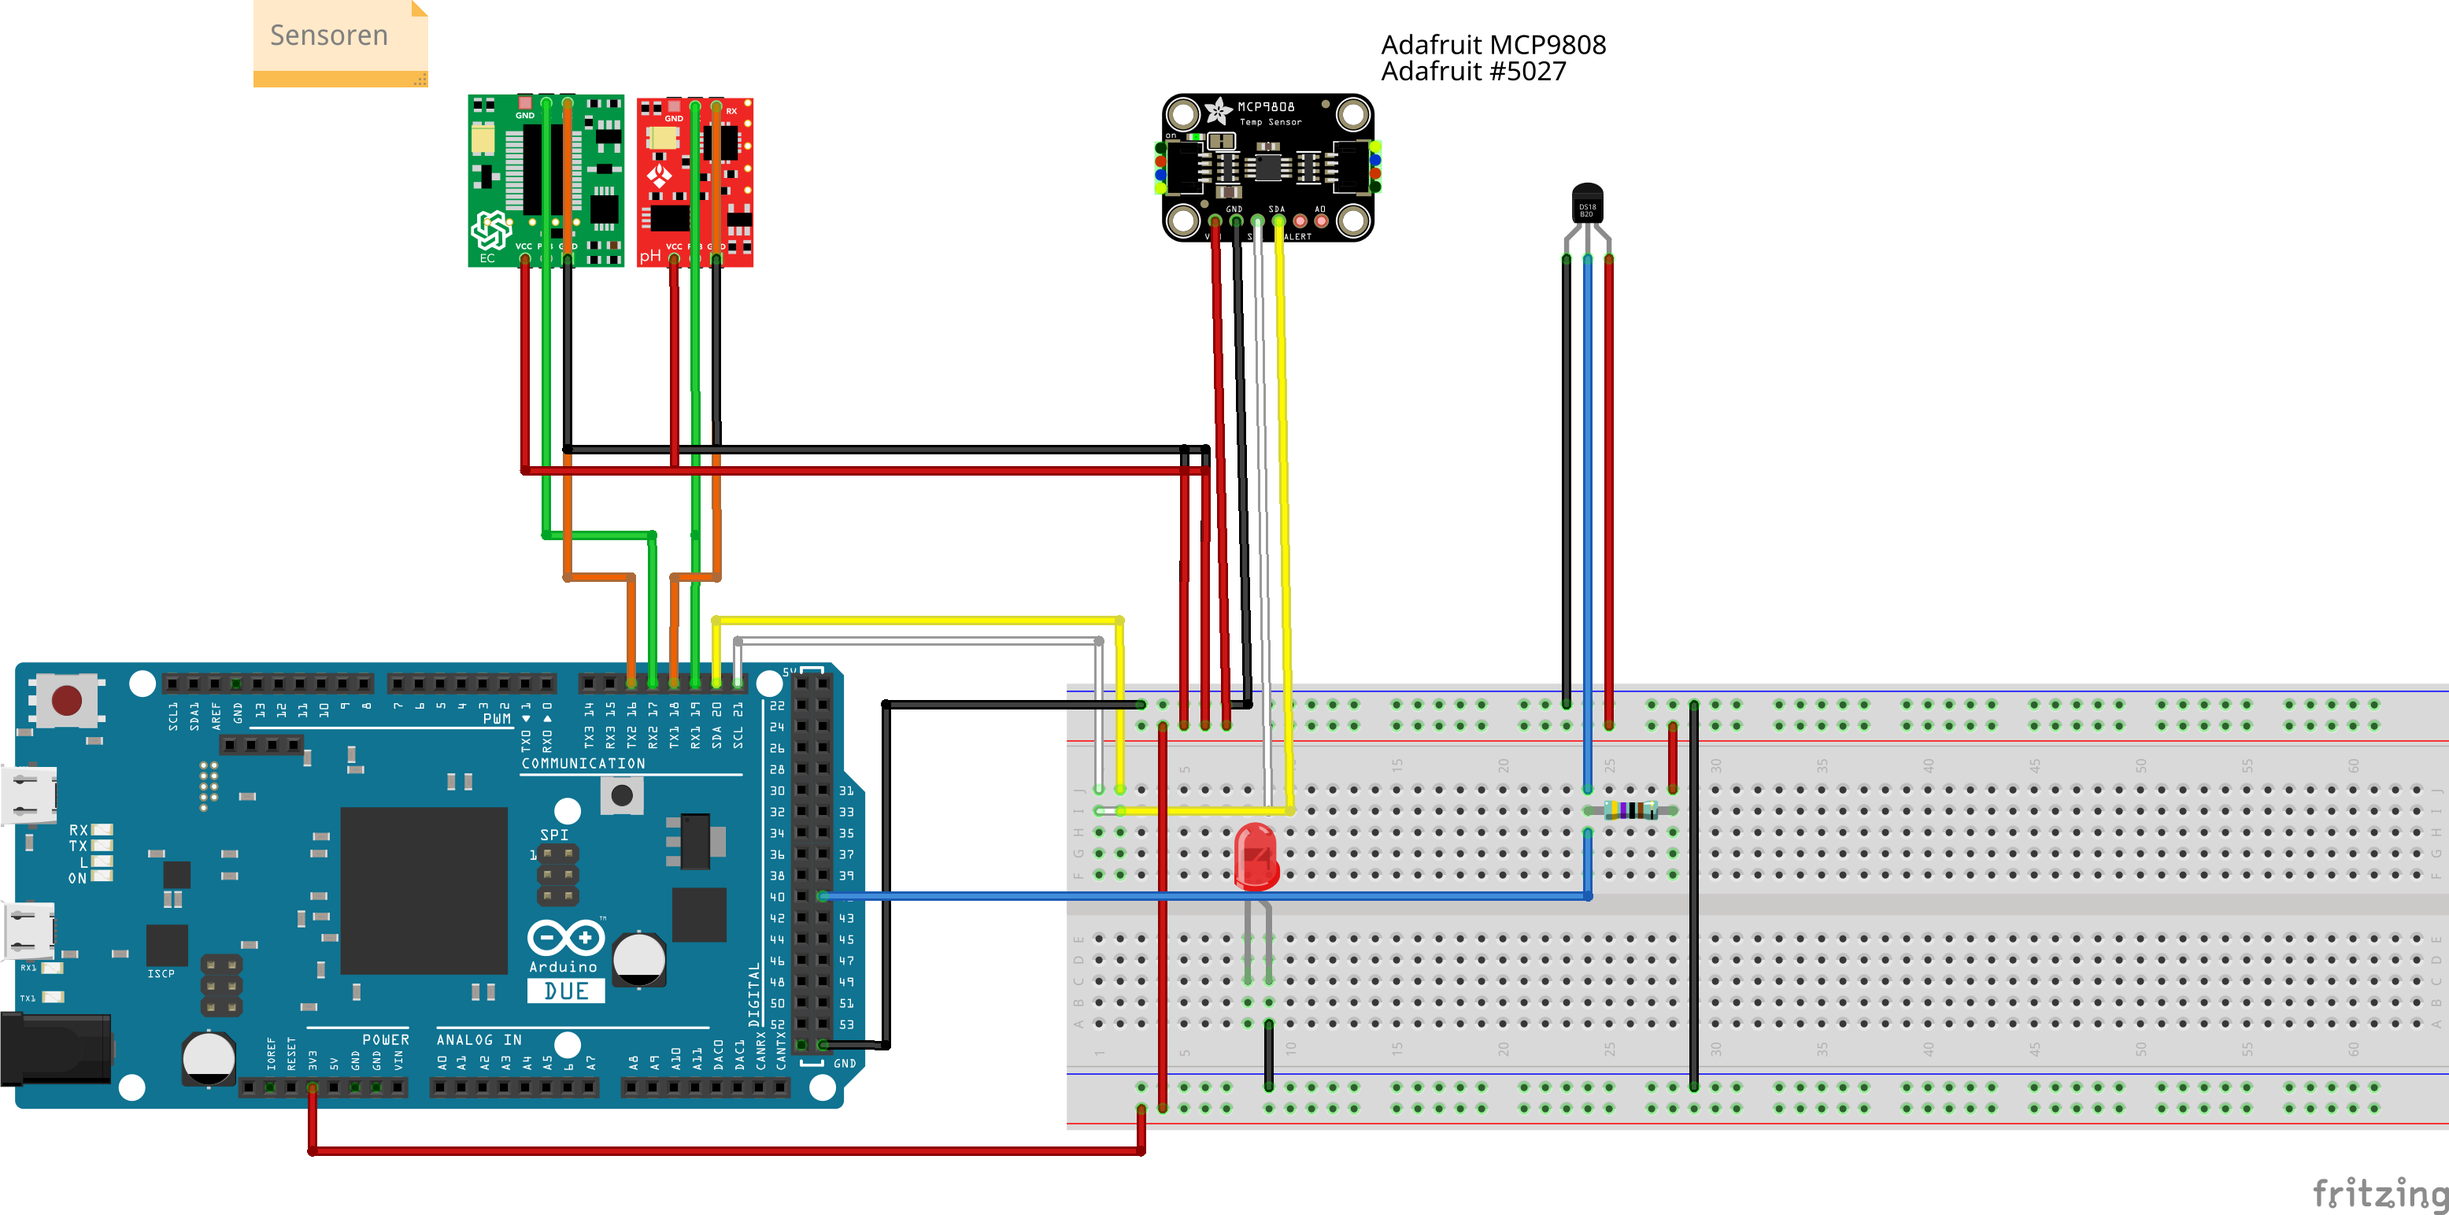
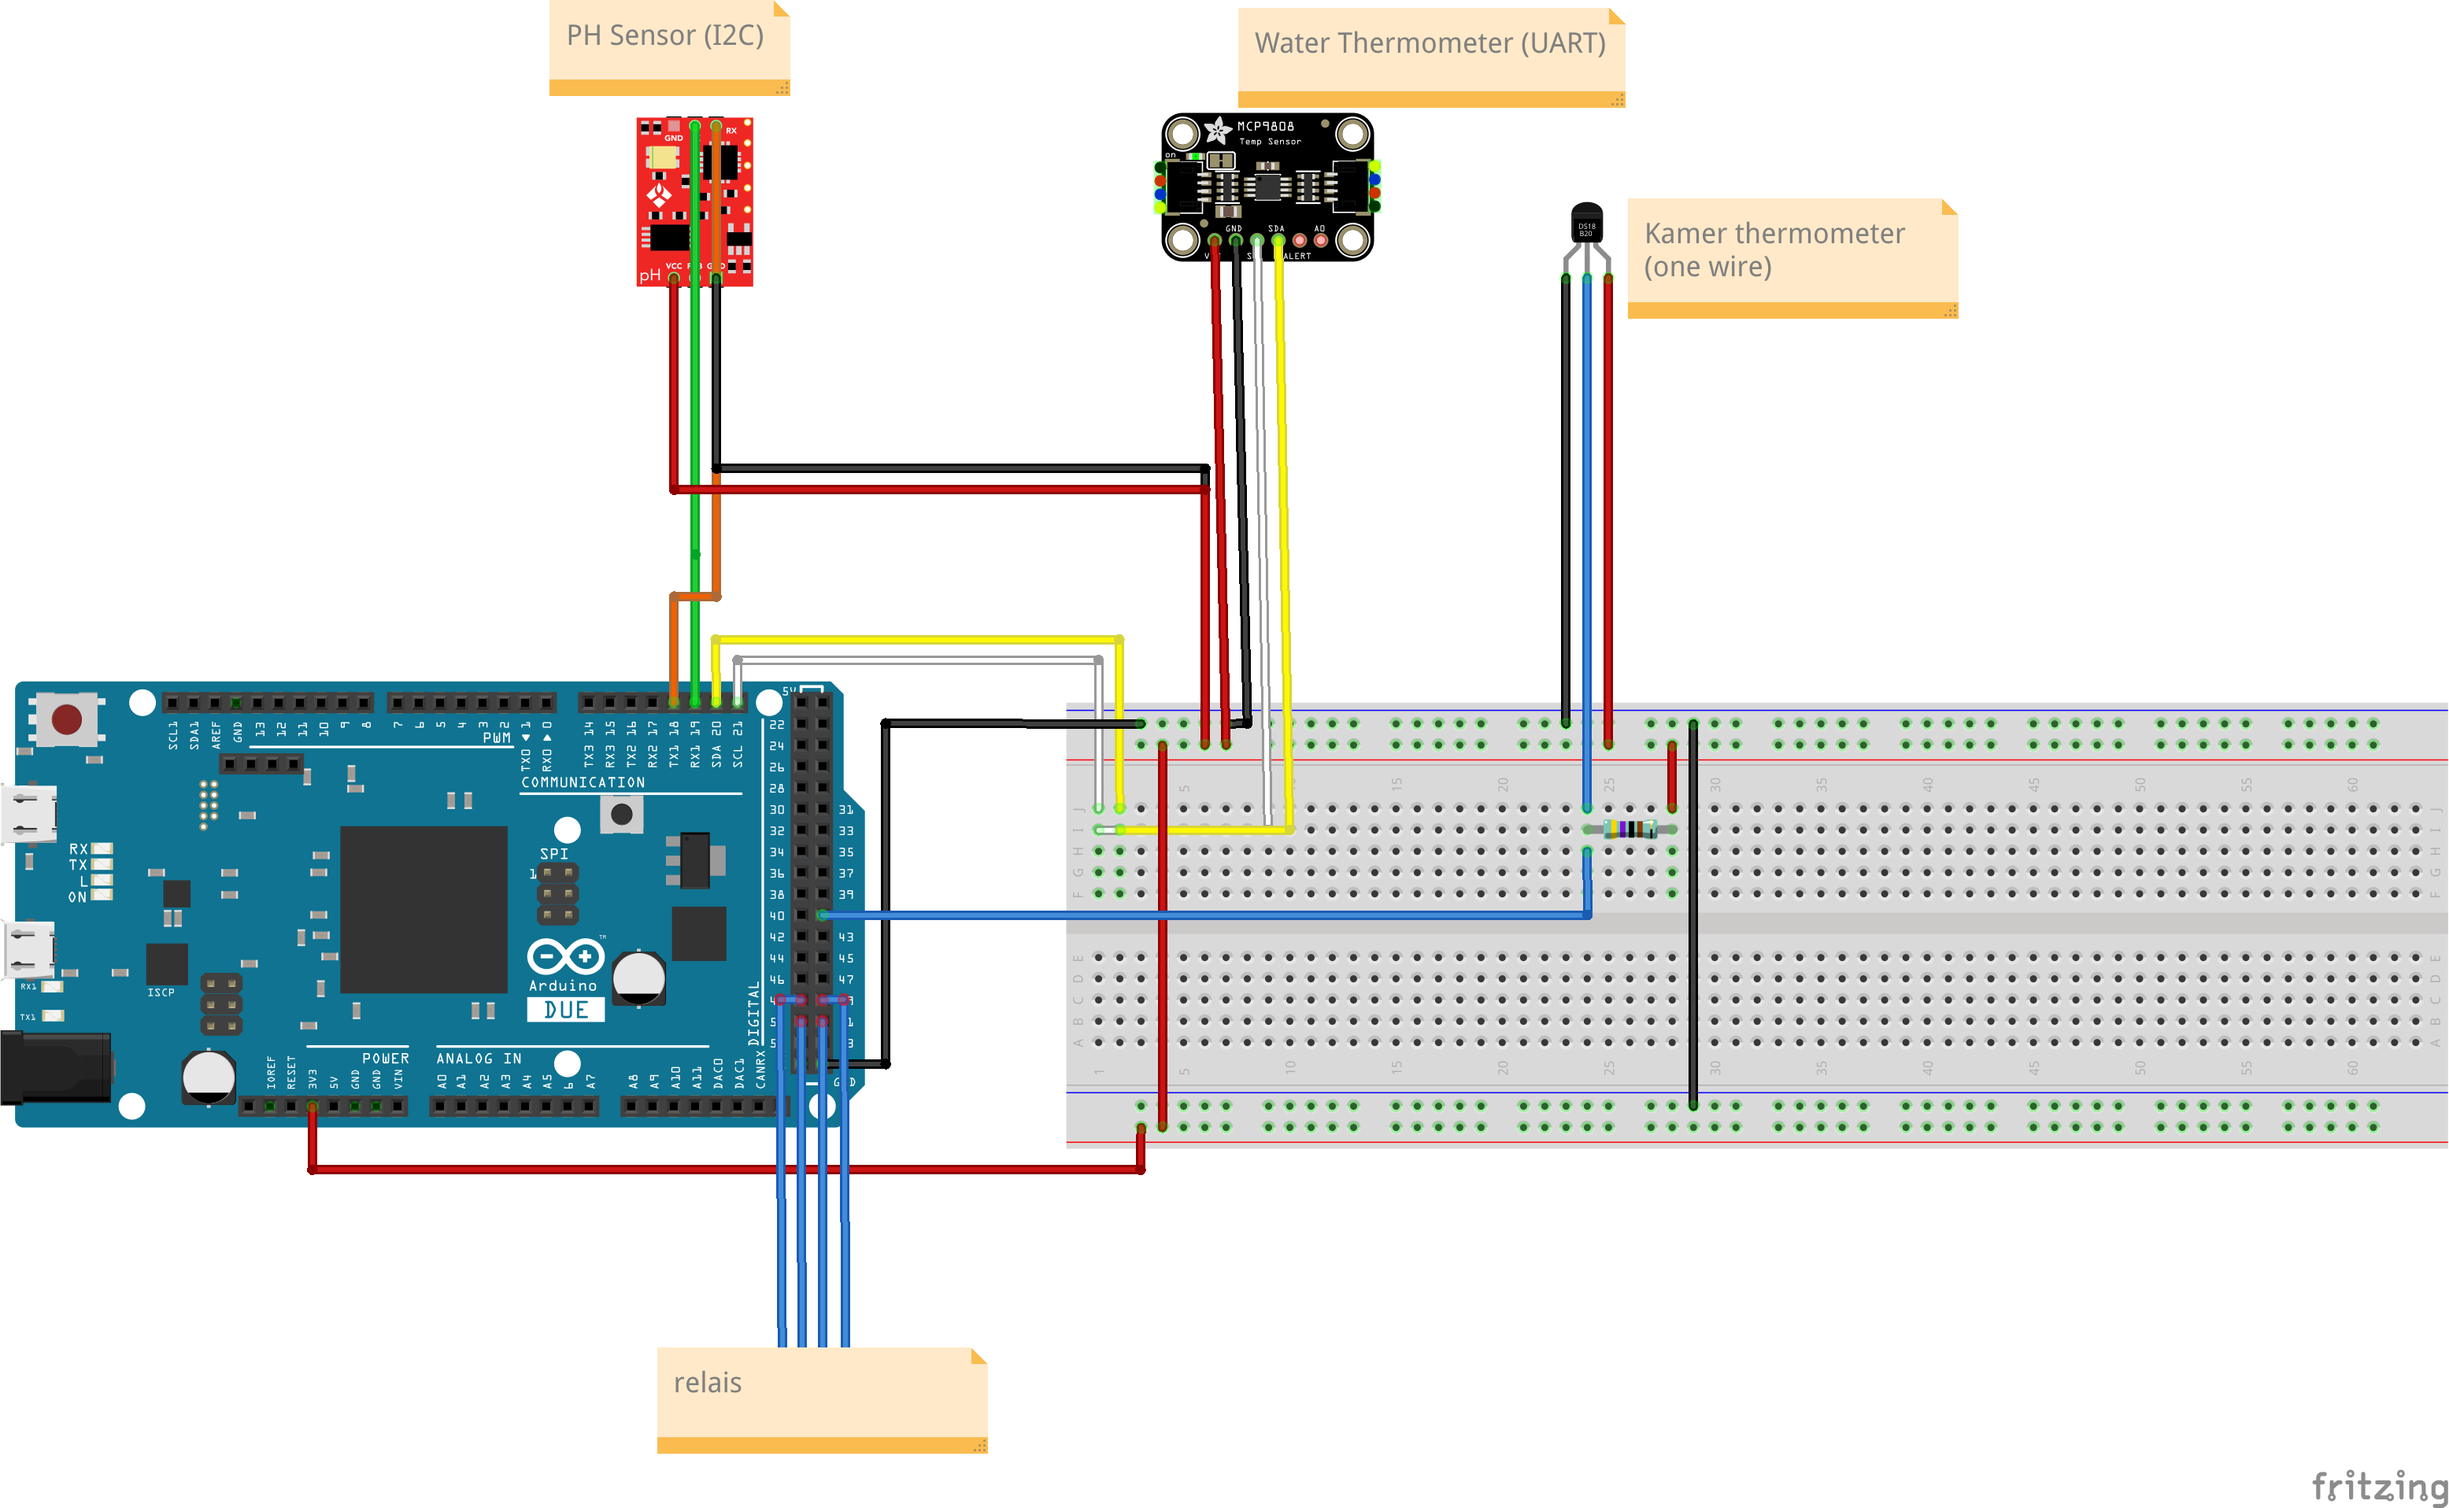
update fritzing diagram

diff --git a/Testplan/testplan.tex b/Testplan/testplan.tex
@@ -254,6 +254,7 @@ Ik ga gebruik maken van de 'Adafruit Peristaltic Liquid Pump with Silicone Tubin
 
 \subsection{Fritzing Diagram}
 Het is van groot belang dat het systeem op de correcte manier wordt aangesloten. Hieronder staat een diagram, welke laat zien hoe elk component verbonden hoort te worden met de microcontroller.
+De 4 relais voor de actuatoren zijn weggelaten. Deze zijn verbonden met het stopcontact, de 4 data-pinnen en de actuatoren.
 \begin{figure}[h]
   \centering
   \includegraphics[width=0.9\textwidth]{Images/hardware_sketch_fritzing.png}
@@ -564,6 +565,7 @@ De test wordt als geslaagd beschouwd als de pH-waarde van de sensor binnen 0.05 
 
 
 \section{Systeemtests}
+\subsection{TurtleGuard}
 \begin{tcolorbox}[colback=white, colframe=black, title=Beschrijving van de systeemtest]
   Deze test richt zich op de juiste werking tussen de verschillende interfaces van het gehele \turtleguard systeem.
 \end{tcolorbox}
